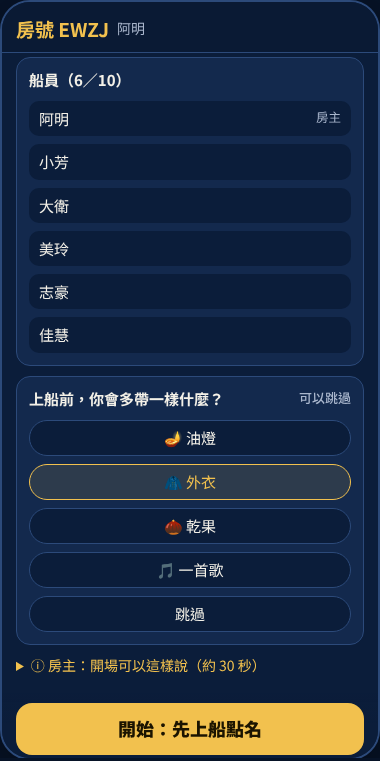
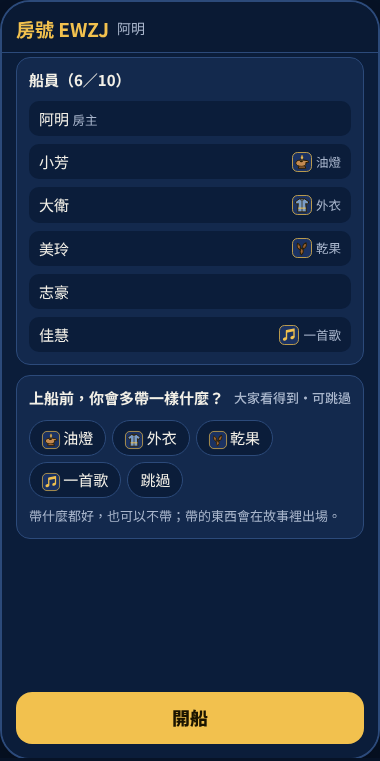
docs: 新手引導原型 v2：認識隊友改成從遊戲裡自然發生，三個待決改成 A/B 畫面（docs/17 第 8 節）
Claude-Session: https://claude.ai/code/session_013qafXEpLpPJQRc3aXadMTu

diff --git a/docs/17-ONBOARDING-ICEBREAK.md b/docs/17-ONBOARDING-ICEBREAK.md
@@ -4,7 +4,7 @@
 > 1. 新手看不懂，主要不是字太多，是**按下開始的那一秒 8 分鐘就開始倒數**，第一個畫面就是一張要讀的經文卡，關掉後 9 個區塊一起出現，沒有「先做這一件」。
 > 2. 大家沒注意自己的角色，因為**角色只是右上角一個小標籤**；程式裡早就寫好的一句「你負責什麼」（例：伙房「管全船的飯」）**畫面上從來沒顯示過**；也沒有人知道隊友是什麼角色。
 > 3. 「天亮」在遊戲裡同時有三個意思（要顧好的一件事、只來得及做一件的期限、衝向海灘的時刻），但畫面上看不到天慢慢變亮。建議把倒數改成「離天亮 3:20」，天空跟著變亮，並把「等天亮」改名成「⚓ 錨住船」。
-> 4. 沒破冰，是因為遊戲裡的對話**全都是交換情報**（「今晚吃哪一樣？」），沒有一句跟「你是誰」有關。建議開局前加一段不計時的「上船點名」：每個人大聲念出自己的角色卡，順口回答一個跟角色有關的輕鬆小問題（可換題、可跳過），結尾再一起回想「誰說了什麼」。
+> 4. 沒破冰，是因為遊戲裡的對話**全都是交換情報**（「今晚吃哪一樣？」），沒有一句跟「你是誰」有關。**v2（第 8 節）改成不出題**：找人時雙方都知道、帶來的東西在故事裡出場、結尾在火堆旁回顧剛才真的發生的事；不輪流自我介紹。
 > 5. 可點原型在 `docs/prototypes/17-onboarding-prototype.html`，已用比較小的模型（Haiku）扮演新手試讀 4 輪（第 7 節）。這份只是設計，**沒有改遊戲程式、沒有真人試玩**；建議先做 3 件小事（大張角色卡、單一「你現在要做的事」、離天亮時鐘），再做上船點名，最後用 3／6／10 人真人試玩驗證。
 
 本文件只有設計與截圖，不改 `src/`、`public/`、`tools/`、`test/`。所有「玩家會覺得……」都是推測，要靠真人試玩確認。已讀並避開：docs/15（AG 自動試玩審查，分支 review/ag-playtest）、docs/16（連線報告，分支 review/connection）。和 docs/15 的交集在第 6 節說明。
@@ -407,6 +407,45 @@ DECISIONS 2 是「每局 5–10 分鐘」；10 人第一局接近上限，所以
 - 上船前背包題「有什麼用」看不出來（Haiku 每輪都問）。建議油燈卡在天黑時出現時，加一句「因為你上船帶了油燈」。
 - 起風卡「卡片效果是遊戲設定」這句讓人以為這一步要做事；建議改成卡角 ⓘ，第一局也不顯示。
 
+
+## 8. v2：認識隊友改成「從遊戲裡自然發生」（2026-11-22 再追加）
+
+使用者審核 v1 原型後的意見：「有進步但不夠好；認識隊友的做法太刻意，想想比較自然的做法」；三個待決問題要先看到畫面才能決定。
+
+### 8.1 為什麼 v1 太刻意
+v1 的「上船點名」（每人輪流念角色＋回答小問題）、開飯時「跟旁邊的人說你最想吃什麼」、結尾「船員回憶」，本質上都是**遊戲出題、玩家作答**。它們放在遊戲外面，和過關無關，害羞的人只會覺得被點名。Haiku 扮演害羞新人看這幾張圖，刻意程度打 4／5，形容是「像被點名上台報告」。
+
+### 8.2 v2 的原則
+好的派對遊戲不會叫人自我介紹。玩家會認識彼此，是因為**遊戲需要他們開口，而開口的方式本身就透露他是誰**。所以 v2 不新增任何「題目」，只讓認識彼此成為玩遊戲的副產品：
+
+| 時刻 | 做法 | 為什麼自然 |
+|---|---|---|
+| 大廳 | 背包題照舊（帶什麼都好，也可以不帶）；帶的東西**整局跟著名字**出現在名冊上 | 名冊上的「一首歌」本身就是話題，不用遊戲叫人問 |
+| 角色登場 | 8 秒角色卡，第一人稱台詞＋「現在：你要做的一件事」，**不用念、不用輪流** | 大家自然會互看「你是什麼？」 |
+| 開局 | 任務條：「去找 小芳（📦管倉）……找螢幕上方是 📦 的那支手機」；**被找的人手機寫「等一下 阿明 會來找你」** | 找人本身就是最自然的自我介紹；雙方都抬頭，不會只有一邊在找 |
+| 天黑 | 「告訴志豪你看到什麼。怎麼說都可以：形狀、缺口、像什麼，用手比也行」；帶油燈的人被點名「小芳帶了油燈」 | 每個人形容的方式就是他的個性；不出題、不給文藝例句 |
+| 開飯 | 故事點名：「美玲 把帶來的乾果也分給大家」 | 被點到的人會笑、會被追問 |
+| 火堆旁（結算） | 經文 28:1–2 下雨又冷、島上的人生火接待→結算畫成圍著火；「剛才發生的事」只列 3–4 件**真實紀錄**（第 2 格：佳慧形容、志豪 9 秒選對；大衛把外衣披在發抖的人身上；佳慧在火堆旁哼歌） | 人最愛聊剛剛一起經歷的事（「你剛才到底怎麼形容的？」）；不用回想別人的答案 |
+| 謝謝誰 | 收成一行「想謝謝誰嗎？點一下名字就好」，拿掉原因選項 | 原因選項像在打分數 |
+| 第二局 | 角色輪替後，角色卡多一行「上一局的伙房是 大衛——卡住可以問他」；任務條會派到新搭檔（不寫「你們沒說過話」） | 上一局的人變成前輩，自然跟不同的人說話 |
+
+拿掉：輪流念、角色小問題題庫、開飯「你最想吃什麼」、船員回憶、謝謝原因。
+
+### 8.3 待決定：做成 A／B 畫面
+原型最後三個畫面，按上方「方案 A／B」切換：
+1. **角色登場放哪裡**：A＝按開始後先不計時，角色卡 8 秒＋30 秒動畫，看完才倒數（第一局多約 40 秒）；B＝直接計時，角色卡疊在開局畫面上 8 秒，動畫縮成大廳一張說明卡。
+2. **「天亮」怎麼說**：A＝離天亮倒數＋天色條，「等天亮」改名「錨住船」、「天亮前」改「出發前」；B＝名稱不動，只加離天亮倒數和天色條。
+3. **角色卡加聖經人物**：A＝多一行「故事裡：掌船的（徒 27:11）」「路加醫生（西 4:14）」等；B＝不加。
+
+### 8.4 Haiku 試讀（v2）
+| 檢查 | 結果 |
+|---|---|
+| 自然程度（同一個害羞新人看 v1 與 v2） | v1 刻意 4／5，v2 3／5；「比較自然：乙（v2）」。理由：「每個動作都有為什麼要去找他的理由，走過去說話不用硬開場」 |
+| v2 理解度 | 角色、第一件事、天亮、背包的用途都答對；「背包有什麼用」第一次答得出來（看到後面出場才懂） |
+| 依意見再修 | 拿掉「看到人走過來就舉手」「上一局沒說過話」「喊一聲小芳是誰」（改成看手機螢幕上的角色圖示）、文藝例句、結算長清單與謝謝原因；角色卡把「現在要做的一件事」放在未來按鈕前面 |
+| 修完重看 | 另一個 Haiku 的評分是 4／5，但它點名的三處（大聲喊、謝謝像評分、未來按鈕看不懂）已在最後一版改掉；**修改後沒有再請模型看一次** |
+
+注意：Haiku 每一輪的評分會有落差，而且它看的是靜態截圖。會不會尷尬，要等 3／6／10 人真人試玩，觀察大家有沒有自己開口、結束後有沒有繼續聊。
 
 ## 附：截圖清單（`docs/screenshots/onboarding-review/`，390／360px，deviceScaleFactor 2）
 
